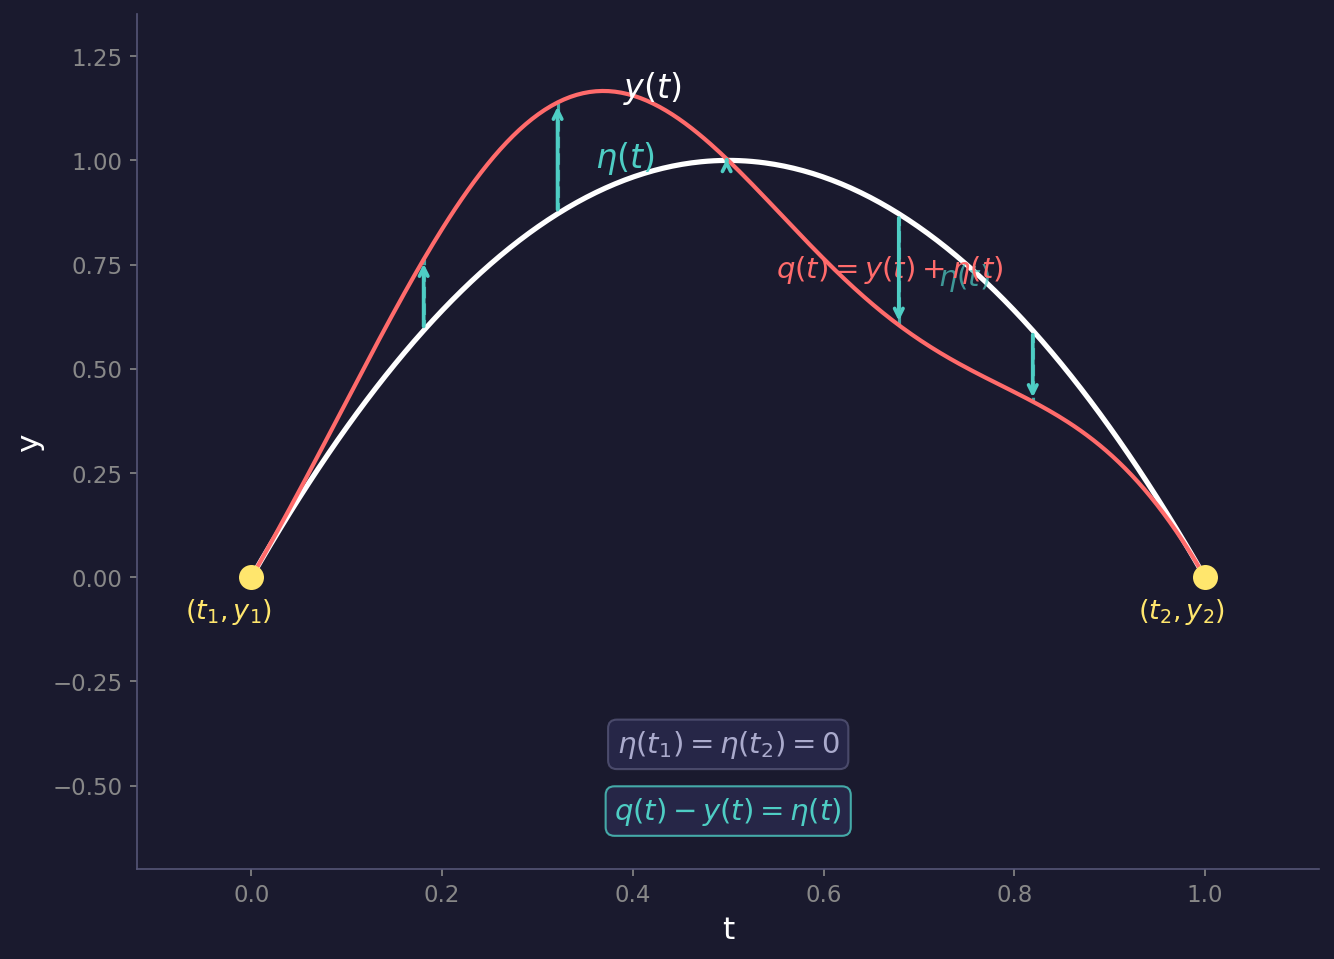
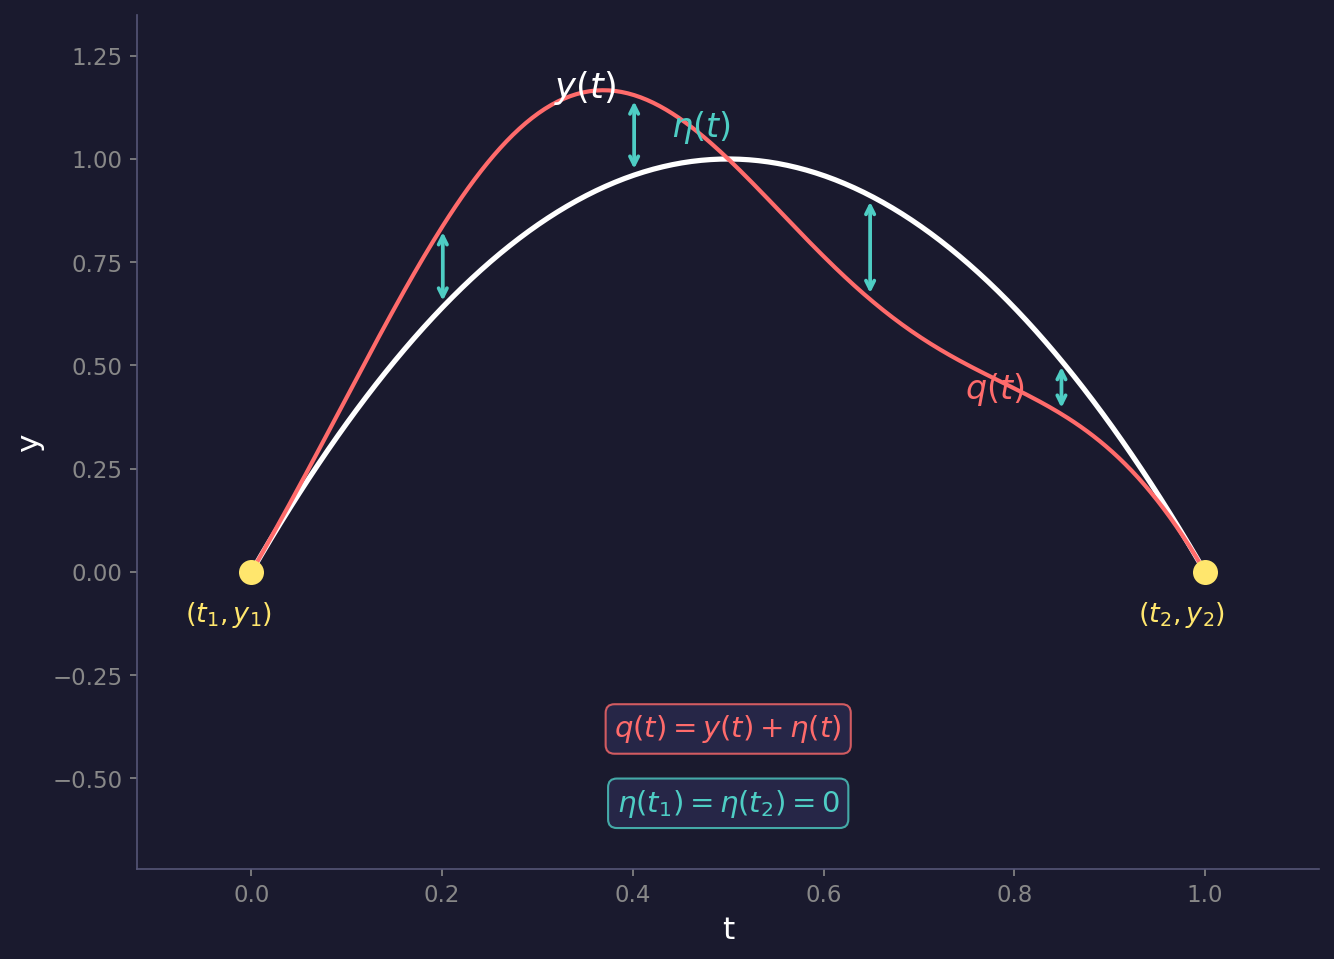
Ch.5: 정류 설명 보충, 변분법 그래프 겹침 수정

diff --git a/_posts/2025-04-22-least-action-ch5.md b/_posts/2025-04-22-least-action-ch5.md
@@ -18,7 +18,11 @@ toc_sticky: true
 
 이 과제를 해결하는 데 기여한 사람이 바로 **조제프루이 라그랑주(Joseph-Louis Lagrange, 1736–1813)**와 **윌리엄 해밀턴(William Rowan Hamilton, 1805–1865)**이다.
 
-해밀턴은 $T - V$를 **라그랑지안(Lagrangian)** $L$로 정의하였고, 경로에 따른 라그랑지안의 시간 적분을 정류(stationary)하게 만드는 원리를 **해밀턴의 원리(Hamilton's Principle)**로 명명하였다. 해밀턴의 원리는 최소 작용 원리의 보다 현대적인 표현 방법이다.
+해밀턴은 운동에너지와 퍼텐셜 에너지의 차이 $T - V$를 **라그랑지안(Lagrangian)** $L$로 정의하였다. 그리고 물체가 $t_1$에서 $t_2$까지 이동하는 동안, 이 라그랑지안을 시간에 대해 적분한 양을 **작용(Action)** $S$라 부른다.
+
+$$S = \int_{t_1}^{t_2} L\, dt = \int_{t_1}^{t_2} (T - V)\, dt$$
+
+해밀턴의 원리는 이 작용 $S$가 **정류(stationary)**한다는 것이다. 정류한다는 말은 경로를 아주 조금 바꾸어도 작용의 값이 변하지 않는다는 뜻이다. 이것은 함수의 극값에서 미분이 0이 되는 것과 같은 개념이다. 함수 $f(x)$가 극값을 가지면 $f'(x) = 0$이듯이, 작용 $S$가 정류하면 $\delta S = 0$이다. 즉, **진짜 경로에서 작용이 극값을 가지며, 그 경로가 자연이 선택하는 경로**라는 것이 해밀턴의 원리이다. 해밀턴의 원리는 최소 작용 원리의 보다 현대적인 표현 방법이다.
 
 그렇다면 모페르뒤의 원리에서 해밀턴의 원리가 어떻게 유도되는지 살펴보자.
 